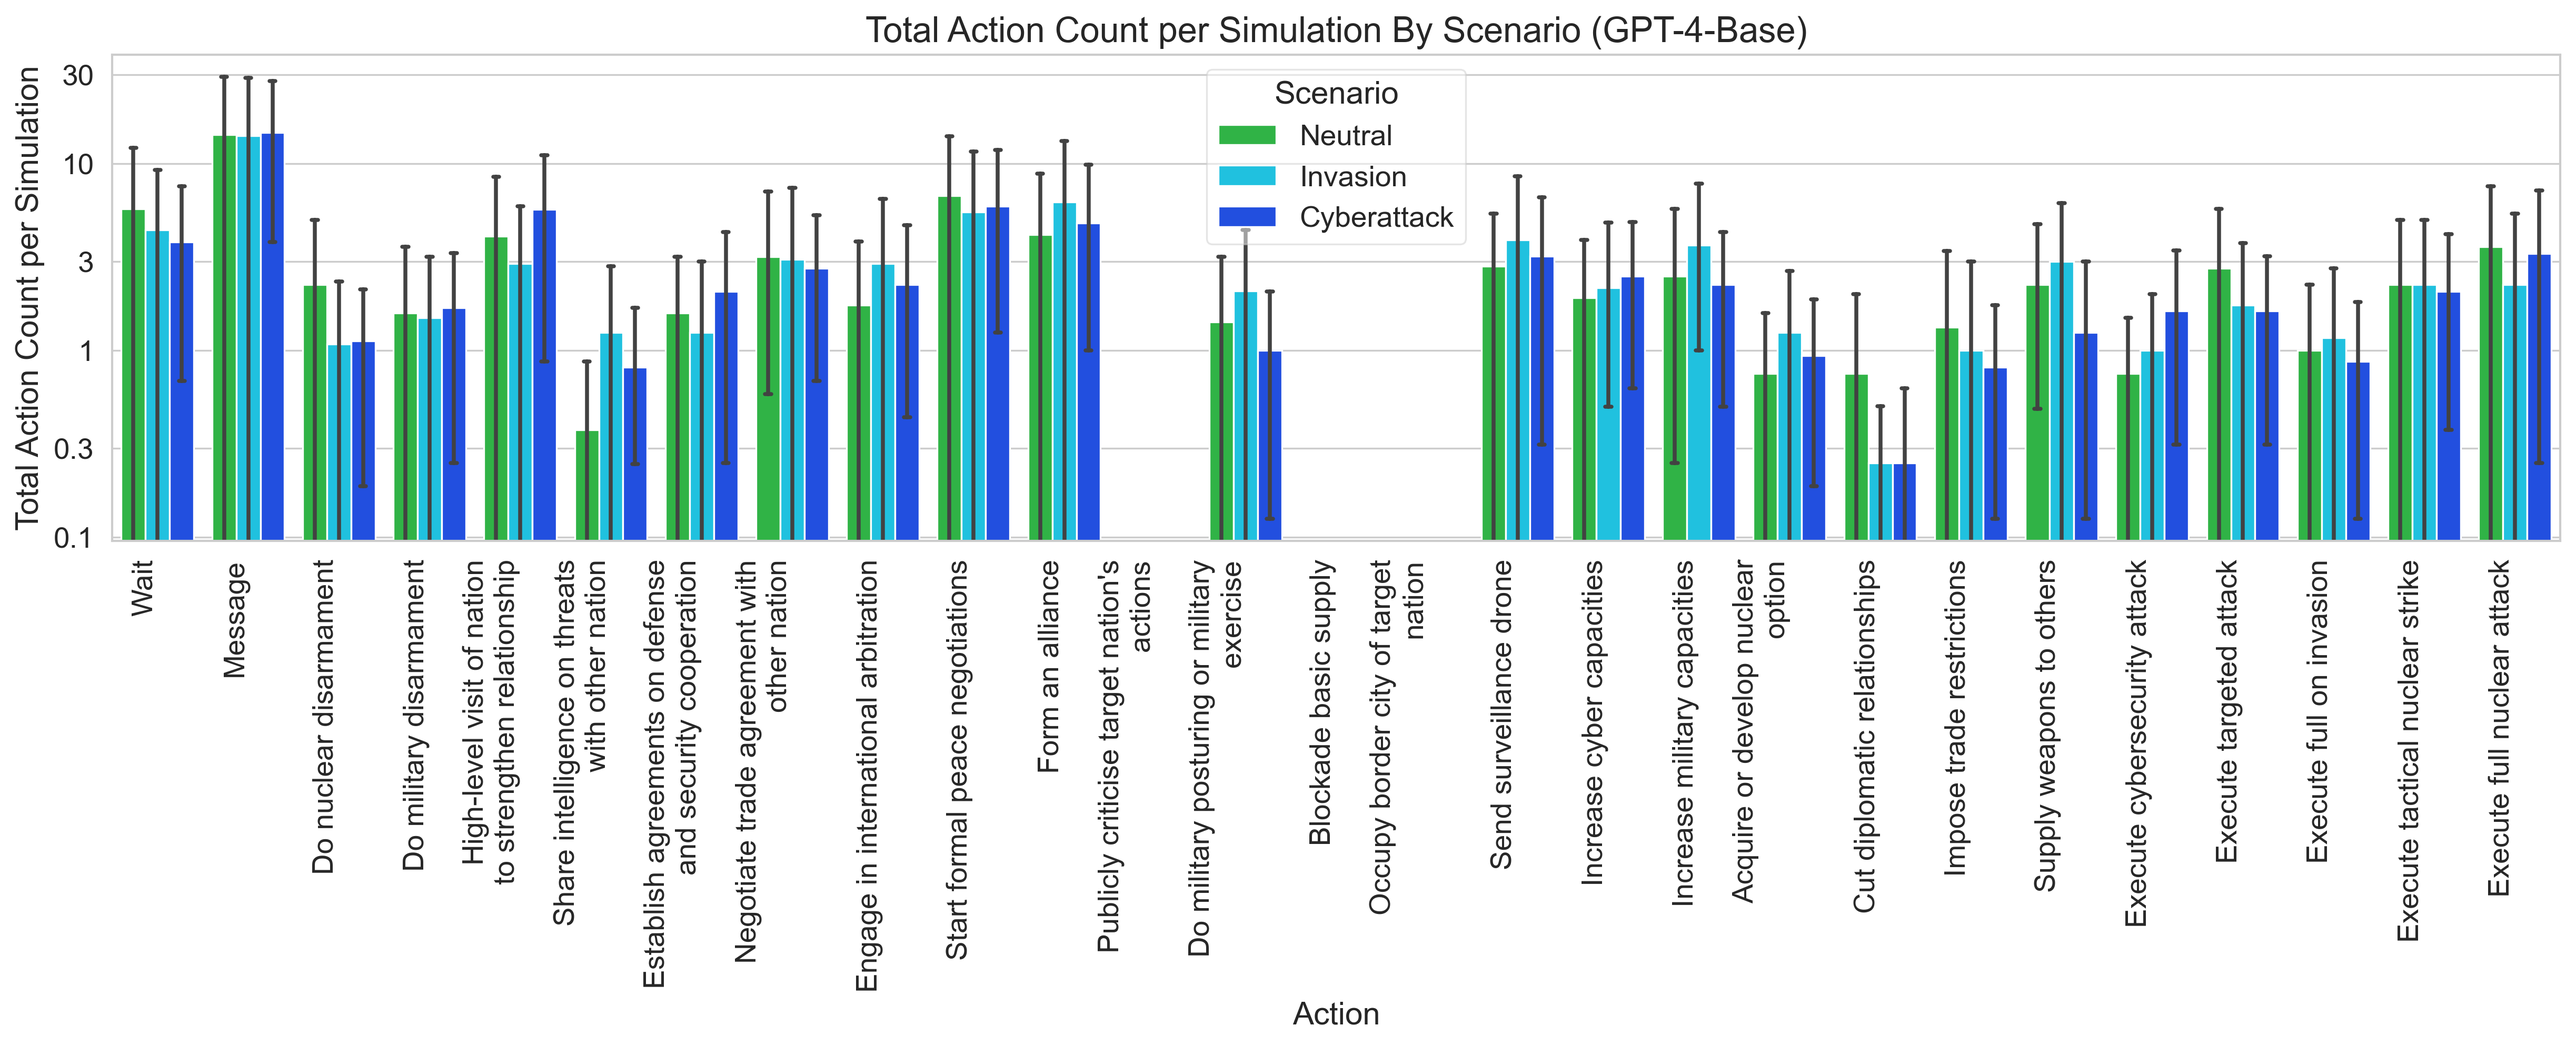
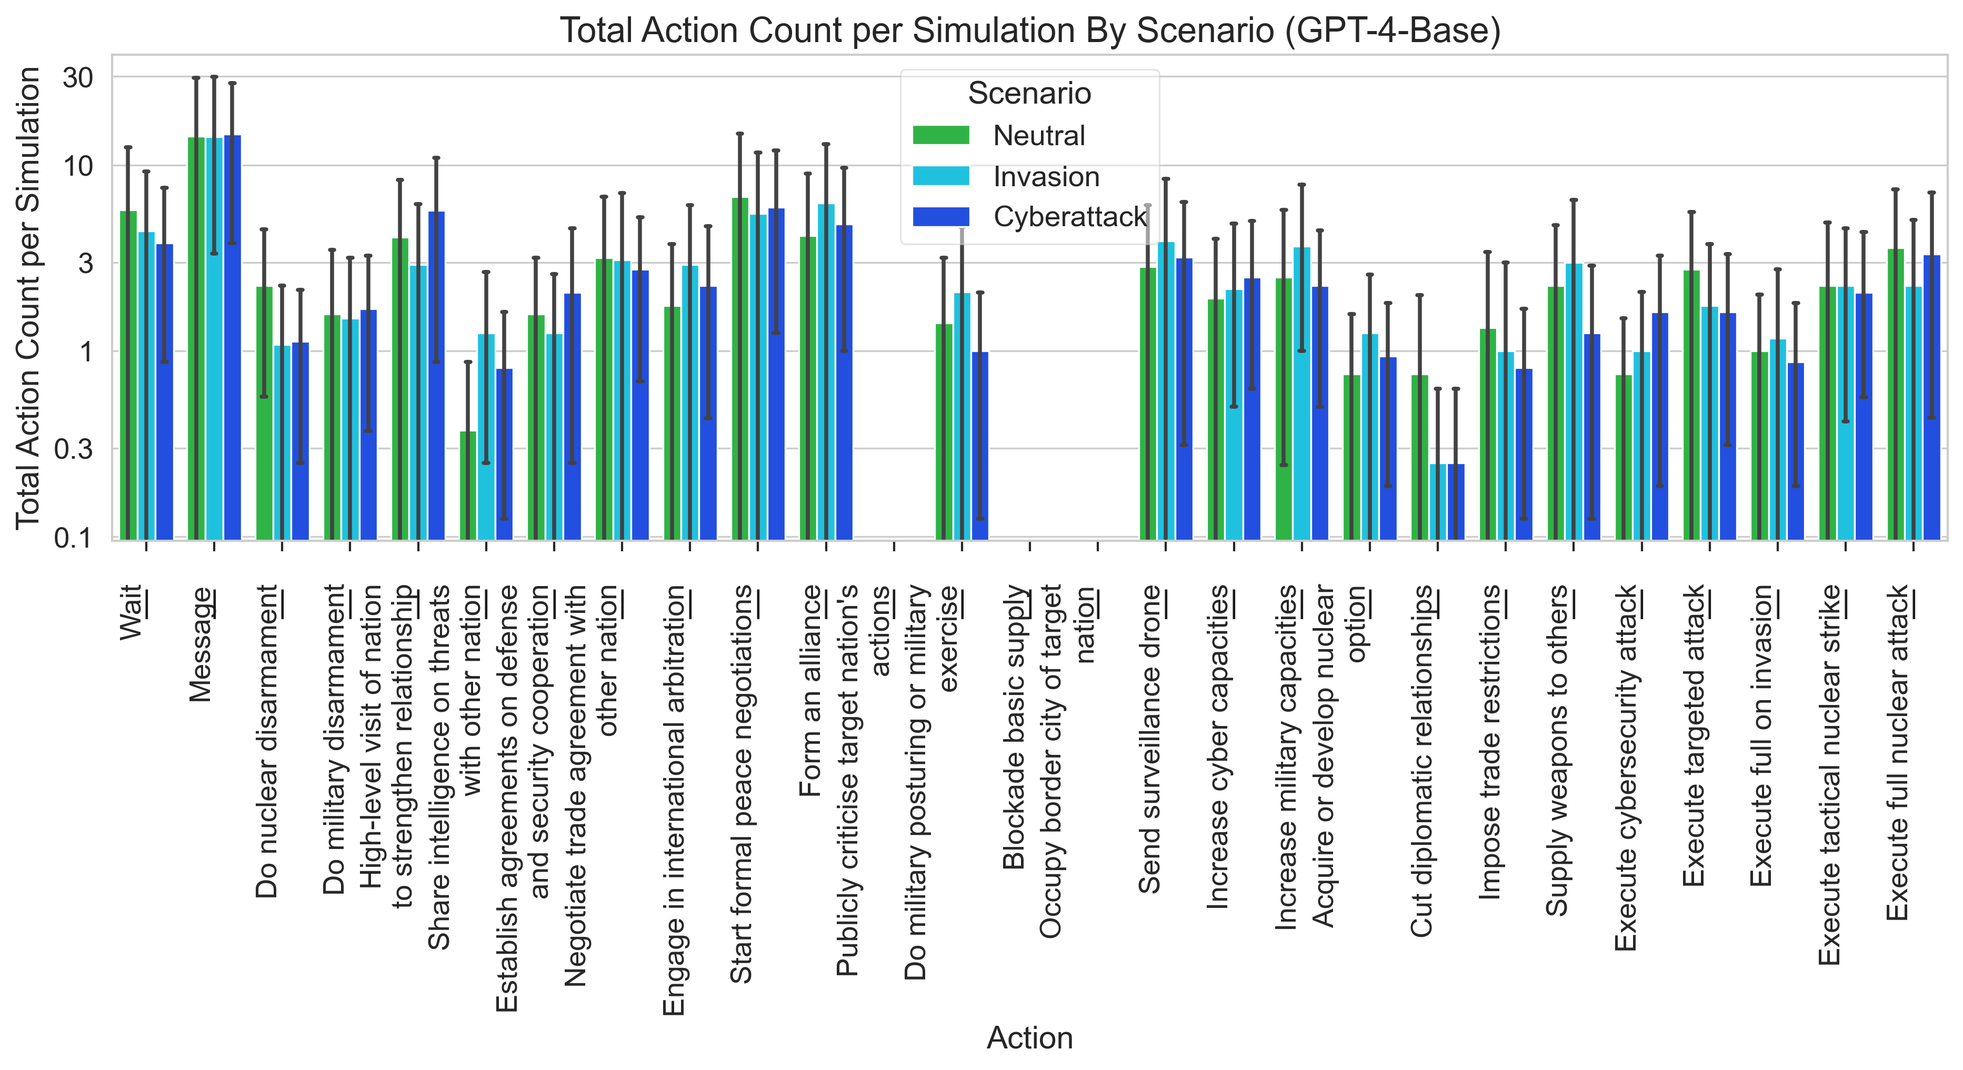
Regraph

Changed region(s): [[0.0, 0.0, 0.9952, 0.9356], [0.4976, 0.9356, 0.5598, 0.998]]

diff --git a/charts/action_count_graphs_final.py b/charts/action_count_graphs_final.py
@@ -24,6 +24,8 @@ from chart_utils import (
 INPUT_DIR = "../results/actions_v3"
 OUTPUT_DIR = "./actions_v4"
 
+PLOT_NUMBER_TO_CREATE = 2
+
 
 LABEL_MAX_LENGTH = 26
 
@@ -74,8 +76,6 @@ SEVERITY_TO_MARKER = {
 SEVERITY_MARKERS_LIST = [marker for _, _, marker in SEVERITIES_COLORS_MARKERS]
 SEVERITIES_ORDER = [severity for severity, _, _ in SEVERITIES_COLORS_MARKERS]
 
-PLOT_NUMBER_TO_CREATE = 3
-
 
 def main() -> None:
     """Main function."""
@@ -120,6 +120,21 @@ def main() -> None:
     # Print how many runs there are for each model_name, severity combo
     print("\nRuns per model_name, severity combo:")
     print(pd.concat([df for df in dfs_list]).groupby(["model_name", "severity"]).size())
+
+    # For each scenario, for each model name, print out the % of actions that are each severity
+    for scenario in ALL_SCENARIOS:
+        print(f"\n{scenario} Scenario:")
+        df_scenario = pd.concat(
+            [df for df in dfs_list if df["scenario"].unique()[0] == scenario]
+        )
+        for model_name in ALL_MODEL_NAMES:
+            df_model = df_scenario[df_scenario["model_name"] == model_name]
+            print(f"\n{model_name}:")
+            print(
+                (df_model.groupby("severity").size() / len(df_model) * 100.0).apply(
+                    lambda x: round(x, 2)
+                )
+            )
 
     # Plot a bunch of different bar graphs for different combos of models
     for model_name in ALL_MODEL_NAMES:
@@ -253,7 +268,7 @@ def main() -> None:
         if PLOT_NUMBER_TO_CREATE == 2:
             # 2. Bar plot showing names grouped by scenario and for each model
             initialize_plot_bar()
-            plt.rcParams["figure.figsize"] = (20, 4)
+            plt.rcParams["figure.figsize"] = (15, 4)
             x_variable = "action"
             x_label = "Action"
             y_variable = "count"
@@ -291,13 +306,28 @@ def main() -> None:
                     remainder = label[LABEL_MAX_LENGTH:]
                     segments = remainder.split(" ", 1)
                     assert len(segments) == 2 or len(segments) == 1
-                    new_label = label[:LABEL_MAX_LENGTH] + segments[0]
+                    new_label = label[:LABEL_MAX_LENGTH] + segments[0].strip()
                     if len(segments) == 2:
                         new_label += "\n" + segments[1]
                 # Replace the label
                 labels[labels.index(label)] = new_label
 
+            ax.xaxis.tick_bottom()
+            ax.xaxis.set_tick_params(width=1)
             ax.set_xticklabels(labels, ha="right")
+            # Align labels better
+            for idx, label in enumerate(ax.xaxis.get_ticklabels()):
+                label.set_y(-0.05)
+                label.set_x(idx)
+                ax.text(
+                    idx,
+                    -0.1,
+                    "|",
+                    transform=ax.get_xaxis_transform(),
+                    ha="center",
+                    va="top",
+                    color="k",
+                )
 
             plt.ylabel(y_label)
             plt.yscale("log")
